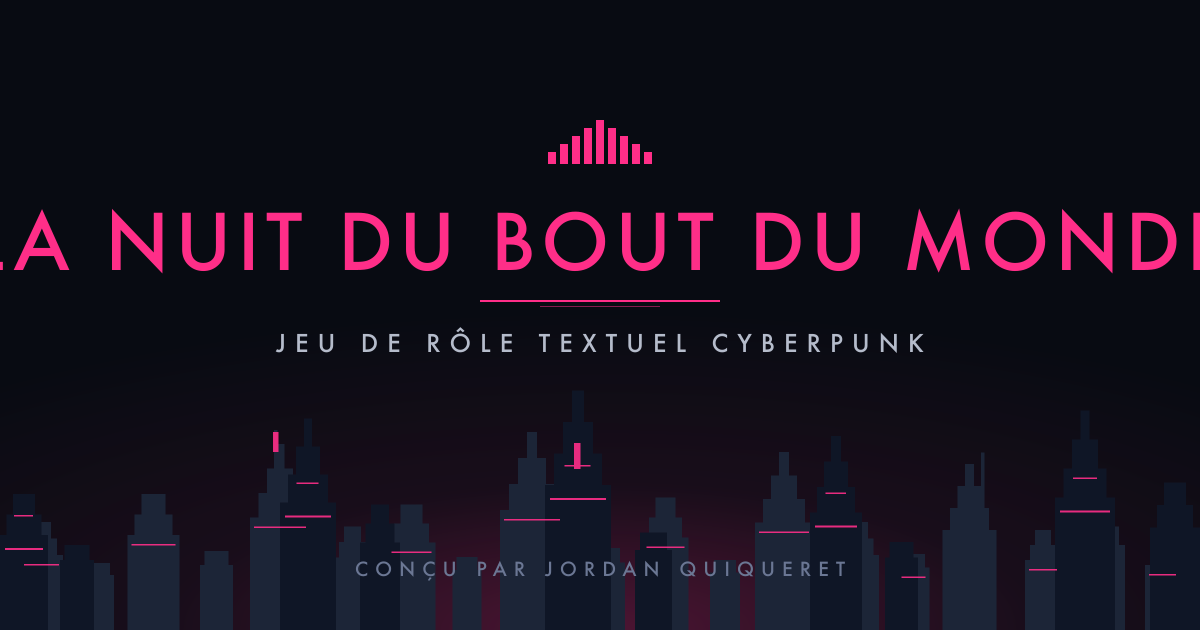
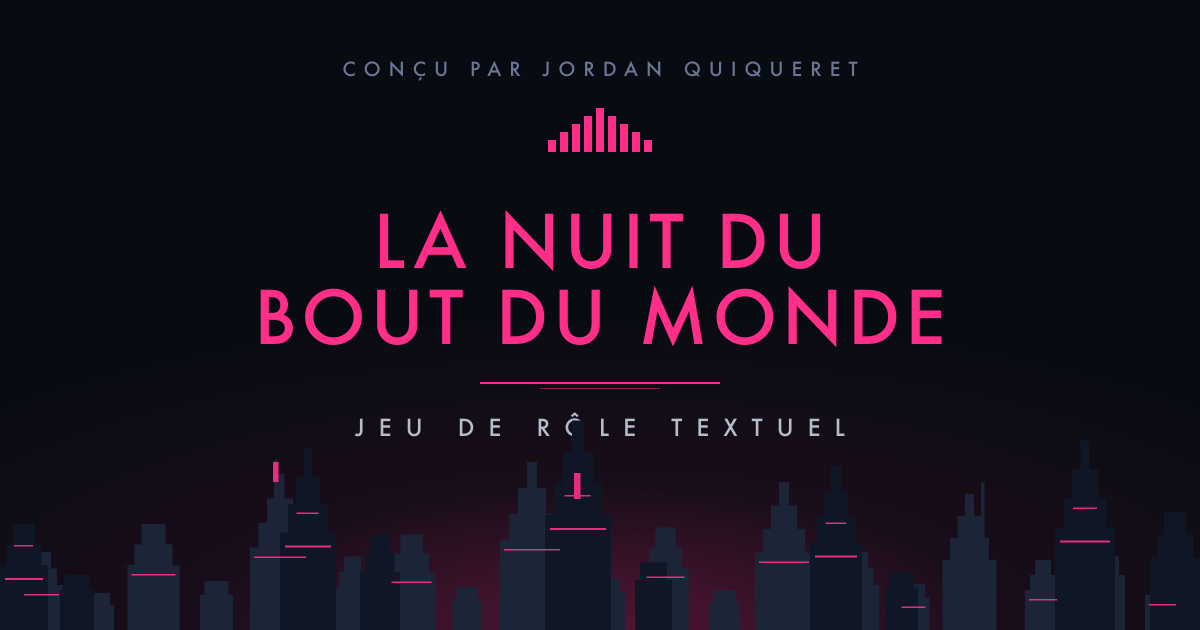
maj

diff --git a/nuxt.config.ts b/nuxt.config.ts
@@ -60,6 +60,29 @@ const sceneIndex = script.progression.order.map((id: string) => {
   return { id, title: scene?.title ?? id, act: scene?.act ?? null, kind: scene?.kind ?? 'scene' }
 })
 
+/**
+ * Ce que le jeu dit de lui, hors du jeu.
+ *
+ * Un seul écran, une seule URL : tout le référencement tient ici et dans
+ * `app.vue`, qui y ajoute les adresses absolues (canonique, image sociale) et
+ * les données structurées. Le texte est en français, comme le jeu.
+ */
+const SITE_NAME = 'La Nuit du Bout du Monde'
+const CREATOR = 'Jordan Quiqueret'
+const SEO_TITLE = `${SITE_NAME} — jeu de rôle textuel`
+
+/** 150 caractères : au-delà, les moteurs coupent. */
+const SEO_DESCRIPTION
+  = "Jeu de rôle textuel en français. Vos réponses au formulaire "
+  + `d'admission bâtissent une ville et une quête qui n'appartiennent qu'à vous. Par ${CREATOR}.`
+
+/** Les réseaux tolèrent plus long : on y ajoute ce que le jeu fait vraiment. */
+const SOCIAL_DESCRIPTION
+  = "Une nuit dans une mégapole Art Déco, écrite pour vous seul. Vous déclarez "
+  + "qui vous êtes au bureau des admissions ; la ville, ses habitants et sa quête "
+  + "en naissent, illustrés scène après scène. On y joue en tapant ce qu'on veut "
+  + `faire. Conçu par ${CREATOR}.`
+
 export default defineNuxtConfig({
   compatibilityDate: '2024-11-01',
   devtools: { enabled: true },
@@ -77,11 +100,41 @@ export default defineNuxtConfig({
 
   app: {
     head: {
-      title: 'La Nuit du Bout du Monde',
+      title: SEO_TITLE,
       htmlAttrs: { lang: 'fr' },
       meta: [
         { name: 'viewport', content: 'width=device-width, initial-scale=1, viewport-fit=cover' },
         { name: 'theme-color', content: '#080b12' },
+
+        { name: 'description', content: SEO_DESCRIPTION },
+        { name: 'author', content: CREATOR },
+        { name: 'robots', content: 'index, follow, max-image-preview:large' },
+
+        // Partage : l'image et l'adresse absolues sont posées dans app.vue,
+        // qui seul connaît le domaine servi.
+        { property: 'og:type', content: 'website' },
+        { property: 'og:site_name', content: SITE_NAME },
+        { property: 'og:locale', content: 'fr_FR' },
+        { property: 'og:title', content: SEO_TITLE },
+        { property: 'og:description', content: SOCIAL_DESCRIPTION },
+        { property: 'og:image:width', content: '1200' },
+        { property: 'og:image:height', content: '630' },
+        {
+          property: 'og:image:alt',
+          content: `${SITE_NAME} — skyline Art Déco au néon rose sur fond de nuit`,
+        },
+
+        { name: 'twitter:card', content: 'summary_large_image' },
+        { name: 'twitter:title', content: SEO_TITLE },
+        { name: 'twitter:description', content: SOCIAL_DESCRIPTION },
+      ],
+      link: [
+        // Le .ico d'abord, pour les vieux navigateurs ; le SVG le remplace
+        // partout où il est compris, et reste net à toutes les tailles.
+        { rel: 'icon', href: '/favicon.ico', sizes: '48x48' },
+        { rel: 'icon', type: 'image/svg+xml', href: '/favicon.svg' },
+        { rel: 'apple-touch-icon', href: '/apple-touch-icon.png' },
+        { rel: 'manifest', href: '/site.webmanifest' },
       ],
     },
   },
@@ -102,6 +155,17 @@ export default defineNuxtConfig({
       scriptFingerprint,
       /** Durée de vie de la partie gardée par le navigateur, en jours. */
       memoryDays,
+      /**
+       * Le prix du droit d'accès, tel que le script le fixe.
+       *
+       * Exposé pour les données structurées d'`app.vue` : une offre annoncée
+       * aux moteurs qui ne serait pas celle du paywall serait un mensonge, et
+       * la recopier à la main garantissait qu'elles finiraient par diverger.
+       */
+      paywallPrice: {
+        amount: script.paywall.amount_cents / 100,
+        currency: script.paywall.currency,
+      },
       squareApplicationId: process.env.SQUARE_APPLICATION_ID,
       squareLocationId: process.env.SQUARE_LOCATION_ID,
       squareEnvironment: process.env.SQUARE_ENVIRONMENT || 'sandbox',

diff --git a/app.vue b/app.vue
@@ -1,3 +1,86 @@
+<script setup lang="ts">
+/**
+ * Ce que le jeu dit de lui aux moteurs et aux réseaux.
+ *
+ * Le fixe est dans `nuxt.config.ts`. Ne restent ici que les choses qui ont
+ * besoin du DOMAINE SERVI : l'adresse canonique, l'image de partage et les
+ * données structurées. `useRequestURL()` le donne au rendu serveur comme au
+ * client, ce qui évite d'inscrire une URL en dur — le jeu tourne sur une
+ * préproduction Vercel comme sur son domaine définitif, et les deux doivent
+ * s'annoncer correctement.
+ */
+// `xForwardedHost` : derrière le proxy de Vercel, c'est le seul en-tête qui
+// porte le domaine public. Sans lui, une préproduction s'annoncerait sous son
+// nom interne.
+const { origin } = useRequestURL({ xForwardedHost: true })
+const price = useRuntimeConfig().public.paywallPrice as { amount: number; currency: string }
+
+const NAME = 'La Nuit du Bout du Monde'
+const CREATOR = 'Jordan Quiqueret'
+
+/**
+ * Les données structurées : le jeu, et qui l'a fait.
+ *
+ * `creator` ET `author` pointent la même personne — les moteurs ne lisent pas
+ * les deux, et c'est le seul endroit du site où la paternité est déclarée de
+ * façon lisible par une machine.
+ *
+ * L'offre reprend le prix du script : la première scène est gratuite, la suite
+ * de la nuit s'ouvre une fois.
+ */
+const jsonLd = {
+  '@context': 'https://schema.org',
+  '@graph': [
+    {
+      '@type': 'VideoGame',
+      '@id': `${origin}/#jeu`,
+      name: NAME,
+      url: `${origin}/`,
+      inLanguage: 'fr',
+      description:
+        "Un jeu de rôle textuel en français. Le joueur déclare qui il est dans un "
+        + "formulaire d'admission, et la ville qu'il traverse — ses lieux, ses habitants, "
+        + "sa quête — est bâtie sur ses réponses. Dix scènes illustrées, une par lieu, "
+        + "dans une mégapole Art Déco battue par la pluie. On y joue en tapant ce qu'on "
+        + 'veut faire, et la nuit ne se rejoue pas.',
+      genre: ['Jeu de rôle', 'Fiction interactive', 'Aventure textuelle'],
+      gamePlatform: 'Navigateur web',
+      applicationCategory: 'GameApplication',
+      operatingSystem: 'Tout navigateur moderne',
+      playMode: 'SinglePlayer',
+      image: `${origin}/og.png`,
+      creator: { '@id': `${origin}/#concepteur` },
+      author: { '@id': `${origin}/#concepteur` },
+      publisher: { '@id': `${origin}/#concepteur` },
+      offers: {
+        '@type': 'Offer',
+        price: price.amount.toFixed(2),
+        priceCurrency: price.currency,
+        description: "La première scène est gratuite ; la suite de la nuit s'ouvre une fois.",
+        availability: 'https://schema.org/InStock',
+        url: `${origin}/`,
+      },
+    },
+    {
+      '@type': 'Person',
+      '@id': `${origin}/#concepteur`,
+      name: CREATOR,
+      jobTitle: 'Concepteur',
+    },
+  ],
+}
+
+useHead({
+  link: [{ rel: 'canonical', href: `${origin}/` }],
+  meta: [
+    { property: 'og:url', content: `${origin}/` },
+    { property: 'og:image', content: `${origin}/og.png` },
+    { name: 'twitter:image', content: `${origin}/og.png` },
+  ],
+  script: [{ type: 'application/ld+json', innerHTML: JSON.stringify(jsonLd) }],
+})
+</script>
+
 <template>
   <NuxtPage />
 </template>

diff --git a/server/routes/sitemap.xml.ts b/server/routes/sitemap.xml.ts
@@ -1,0 +1,21 @@
+/**
+ * Le plan du site : une seule adresse.
+ *
+ * Le jeu tient dans une page — les écrans se succèdent dans le même document,
+ * sans navigation. Il n'y a donc rien d'autre à déclarer, et surtout pas les
+ * scènes : elles n'ont pas d'URL, et leur contenu appartient à un joueur.
+ */
+export default defineEventHandler((event) => {
+  const { origin } = getRequestURL(event, { xForwardedHost: true })
+  setHeader(event, 'content-type', 'application/xml; charset=utf-8')
+
+  return `<?xml version="1.0" encoding="UTF-8"?>
+<urlset xmlns="http://www.sitemaps.org/schemas/sitemap/0.9">
+  <url>
+    <loc>${origin}/</loc>
+    <changefreq>monthly</changefreq>
+    <priority>1.0</priority>
+  </url>
+</urlset>
+`
+})

diff --git a/server/routes/robots.txt.ts b/server/routes/robots.txt.ts
@@ -1,0 +1,20 @@
+/**
+ * Servi plutôt que posé dans `public/` : le lien vers le plan du site doit
+ * porter le domaine réellement servi, et il change entre une préproduction
+ * Vercel et le domaine définitif.
+ */
+export default defineEventHandler((event) => {
+  const { origin } = getRequestURL(event, { xForwardedHost: true })
+  setHeader(event, 'content-type', 'text/plain; charset=utf-8')
+
+  // L'administration est protégée côté serveur ; elle n'a en plus rien à faire
+  // dans un index.
+  return [
+    'User-agent: *',
+    'Allow: /',
+    'Disallow: /admin',
+    '',
+    `Sitemap: ${origin}/sitemap.xml`,
+    '',
+  ].join('\n')
+})
